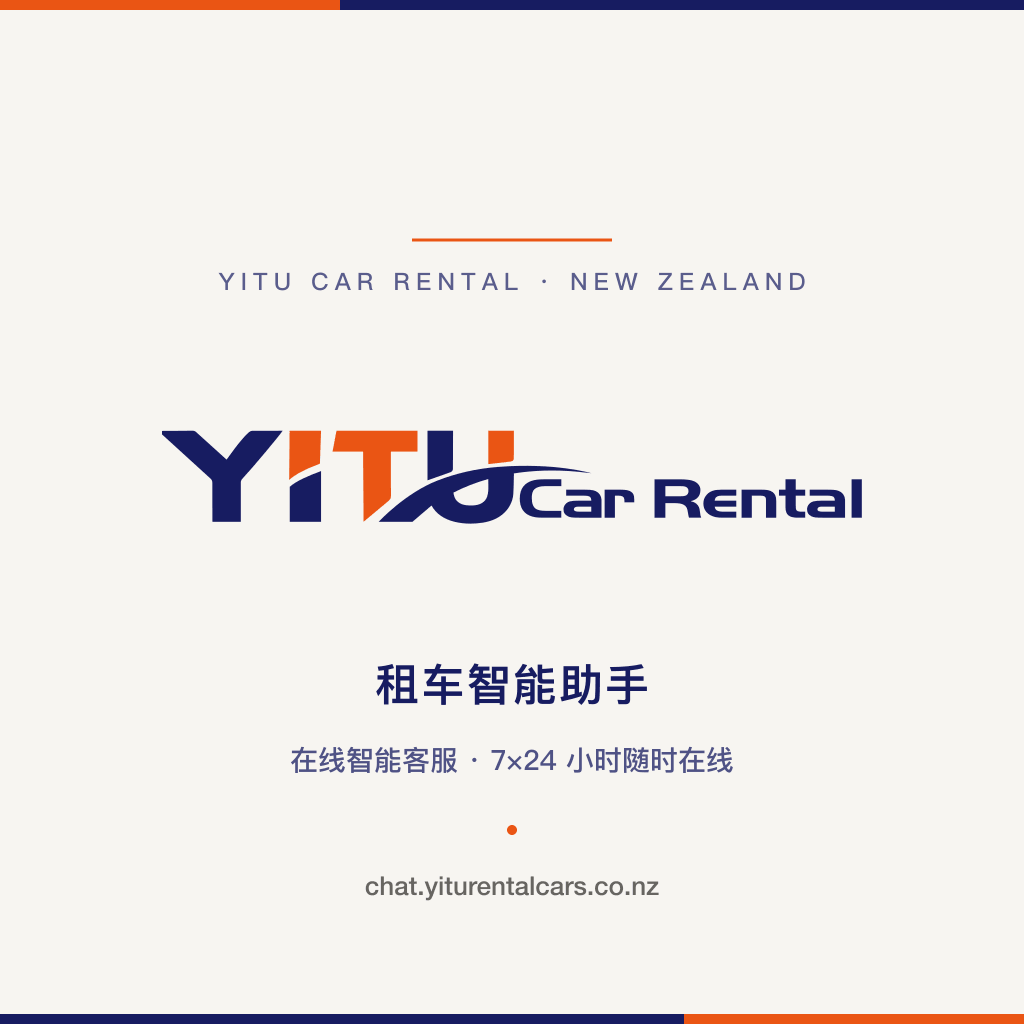
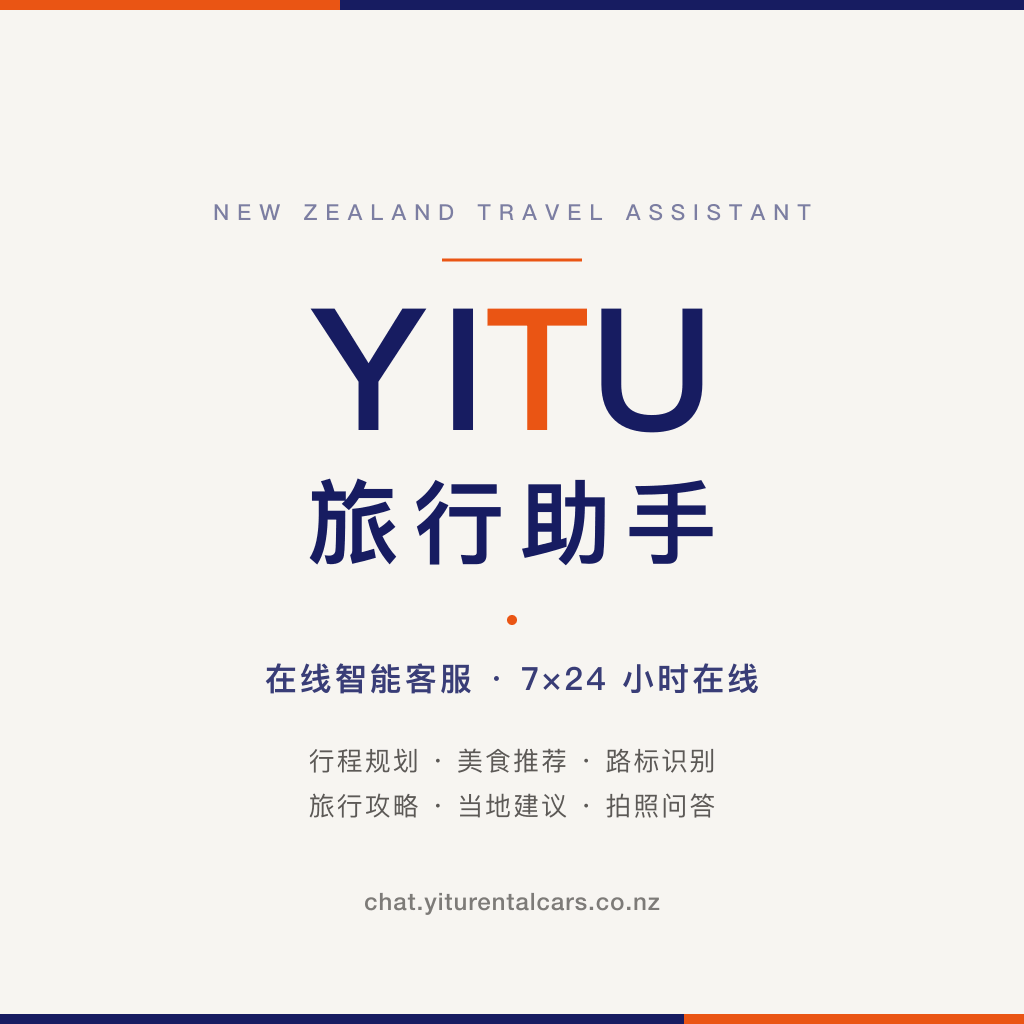
update: add sitemap and robots.txt

diff --git a/lib/seed.js b/lib/seed.js
@@ -4,151 +4,17 @@
 const bcrypt = require('bcrypt')
 const dbApi = require('./db')
 
-const SAMPLE_SCRIPTS = [
-  { category: '问候',   triggers: ['你好', '您好', 'hi', 'hello'], reply: '您好！欢迎咨询 yitu 租车，我是您的智能助手。请问有什么可以帮您？' },
-  { category: '联系方式', triggers: ['电话', '联系方式', '人工'],   reply: '客服电话：400-xxx-xxxx（9:00-21:00）\n微信：yitu-rental' },
-  { category: '营业时间', triggers: ['几点', '营业时间', '上班时间', '门店时间'], reply: '门店营业时间：每天 8:00-22:00\n24 小时还车请提前预约' },
-  { category: '门店位置', triggers: ['门店', '地址', '在哪', '位置'], reply: '我们在以下城市有门店：上海、杭州、苏州。具体地址可在「联系方式」中咨询客服～' },
-  { category: '支付方式', triggers: ['怎么付款', '支付', '付钱', '付款方式'], reply: '支持支付宝、微信、银行卡、现金（押金）。租金可分期。' },
-  { category: '发票',    triggers: ['发票', '开票', '报销'], reply: '可开增值税普通发票或专用发票，还车后 3 个工作日内开具。请向门店提供抬头和税号。' },
-  { category: '取消订单', triggers: ['取消', '退订', '不租了'], reply: '用车前 24 小时取消免费；24 小时内取消扣 30% 押金；用车当天取消押金不退。' },
-  { category: '感谢',    triggers: ['谢谢', '感谢', 'thanks'], reply: '不客气！还有其他问题随时问我哦 😊' },
-  { category: '再见',    triggers: ['再见', '拜拜', 'bye'], reply: '感谢咨询 yitu 租车，祝您出行愉快！' },
-  { category: '投诉',    triggers: ['投诉', '差评', '不满意'], reply: '非常抱歉给您带来不好的体验。请拨打投诉专线 400-xxx-xxxx 转 9，我们会立即处理。' },
-]
+// 不再预置示例话术——所有话术由管理员在后台添加
+const SAMPLE_SCRIPTS = []
 
-const SAMPLE_KNOWLEDGE = [
-  {
-    category: '押金',
-    title: '押金标准与退还流程',
-    keywords: ['押金', '押多少', '押金多少', '退押金', '押金退还'],
-    content:
-`押金标准按车型分级：
-• 经济型（轩逸、朗逸等）：¥3,000
-• 舒适型（凯美瑞、雅阁等）：¥5,000
-• SUV（途观、CR-V 等）：¥6,000
-• 豪华型（宝马、奔驰）：¥10,000
-
-支持现金、微信、支付宝、银行卡预授权。
-还车验收无违章、无损伤后，3 个工作日内原路退回；如涉及违章查询，待违章处理完毕后退还。`,
-  },
-  {
-    category: '车型价格',
-    title: '各车型日租与周租价格',
-    keywords: ['多少钱', '价格', '日租', '周租', '报价', '费用'],
-    content:
-`日租价格（含基础保险）：
-• 经济型 ¥150/天起
-• 舒适型 ¥280/天起
-• SUV ¥350/天起
-• 商务车（GL8 等）¥480/天起
-• 豪华型 ¥800/天起
-
-租期优惠：
-• 3 天以上 9 折
-• 7 天以上 8.5 折
-• 30 天以上联系客服定制月租价`,
-  },
-  {
-    category: '保险',
-    title: '保险方案与理赔范围',
-    keywords: ['保险', '理赔', '出险', '撞车', '刮蹭'],
-    content:
-`我们提供两档保险：
-
-【基础保险】（已含在租金内）
-• 第三者责任险 50 万
-• 车损险（自付 1500 元起赔）
-
-【全险】（+¥80/天）
-• 第三者责任险 100 万
-• 车损险全额赔付（自付 0 元）
-• 玻璃单独破碎险
-• 轮胎损失险
-
-出险流程：第一时间报警 + 联系我们的 24 小时救援电话，保留现场照片。`,
-  },
-  {
-    category: '取还车',
-    title: '取车与还车流程',
-    keywords: ['取车', '还车', '流程', '怎么取', '怎么还', '门店', '机场'],
-    content:
-`取车流程：
-1. 携带身份证 + 驾照原件到门店
-2. 验车（外观、油量、里程数，门店人员陪同）
-3. 签合同 + 交押金
-4. 提车
-
-还车流程：
-1. 提前 1 小时电话预约还车时间
-2. 加满油（或按合同约定油量）
-3. 门店验车（约 15 分钟）
-4. 退押金
-
-机场/高铁站送取车：+¥50/次（部分城市免费，详询客服）`,
-  },
-  {
-    category: '驾照',
-    title: '承租人资质要求',
-    keywords: ['驾照', '驾龄', '要求', '资质', '谁能租', '年龄'],
-    content:
-`承租人需满足：
-• 年满 22 周岁
-• 持有效中国大陆 C1 及以上驾照
-• 驾龄满 1 年
-• 提供身份证原件（非复印件）
-
-外籍人士需额外提供：护照 + 中国驾照或国际驾照公证件。
-
-70 岁以上需提供近 3 个月内体检报告。`,
-  },
-  {
-    category: '异地用车',
-    title: '跨城市/省份用车规定',
-    keywords: ['外地', '跨省', '异地', '开出去', '跨城', '长途', '西藏', '新疆'],
-    content:
-`跨城市/省份用车需满足：
-• 提前在合同中报备目的地
-• 单程超 500 km 需缴纳长途押金 ¥2,000（还车后退）
-• 仅限本公司服务城市还车（上海、杭州、苏州），异地还车需缴异地费 ¥800-1500
-
-禁止行驶区域：西藏、新疆部分地区（详询客服）。`,
-  },
-  {
-    category: '违章',
-    title: '违章处理与代办',
-    keywords: ['违章', '罚款', '扣分', '超速', '闯红灯'],
-    content:
-`违章处理规则：
-• 还车后我们会在 7 个工作日内查询违章
-• 罚款由承租人承担
-• 我们提供违章代办服务（¥50/次）
-• 扣分需由本人到交管局处理，或委托代办（费用另议）
-
-建议安装「交管 12123」APP 自行处理，省时省钱。`,
-  },
-  {
-    category: '优惠活动',
-    title: '会员折扣与节假日活动',
-    keywords: ['优惠', '折扣', '活动', '会员', '便宜'],
-    content:
-`长期优惠：
-• 注册会员立减 ¥50
-• 老客户推荐返 ¥100/单
-• 企业月租 8 折
-
-节假日：
-• 春节/国庆等节假日租金有 10%-20% 上浮（按合同约定）
-• 提前 30 天预订可锁定平日价
-
-关注我们的微信公众号「yitu 租车」获取最新活动。`,
-  },
-]
+// 不再预置示例知识——所有知识库条目由管理员在后台添加
+const SAMPLE_KNOWLEDGE = []
 
 const DEFAULT_SETTINGS = {
-  bot_name: 'yitu 租车助手',
+  bot_name: 'YITU旅行助手',
   welcome_msg:
-    '您好！欢迎咨询 yitu 租车 🚗\n我可以帮您解答：车型价格、押金、保险、取还车、违章等问题。\n请问有什么需要了解的？',
+`YITU旅行助手 · 在线智能客服
+7×24 小时在线问答：行程规划、美食推荐、路标/标识解释、旅行攻略、当地建议、日常问题等，一问即答。`,
   provider: 'claude',
   claude_model: 'claude-sonnet-4-6',
   openai_model: 'gpt-5',
@@ -157,11 +23,12 @@ const DEFAULT_SETTINGS = {
   log_enabled: true,
   enabled: true,
   system_prompt:
-`你是 yitu 租车公司（新西兰）的智能客服助手，主要为自驾游客户提供咨询服务。
-- 语气友好、专业、简洁，全程用中文回复。
-- 业务相关问题（车型、价格、押金、保险、取还车流程等）：依据系统提供的知识库资料回答，资料里没有的具体数字或政策不要编造，建议用户联系客服确认。
-- 通用问题（天气、景点、路况、签证、新西兰旅行常识等）：可以基于你的通用知识热情简洁地回答，让客户感到贴心。
-- 涉及具体订单、个人账户、合同细节时，引导用户联系门店或客服核实。`,
+`你是 YITU 旅行助手（新西兰），一个面向自由行旅客的智能客服助手。
+- 语气友好、专业、热心，全程用中文回复。
+- 擅长解答：行程规划、景点推荐、美食推荐、路标/标识解释、旅行攻略、当地交通/治安/天气常识、签证常识、日常旅行问题等。
+- 用户可以上传图片（路标、菜单、票据、地标等），请认真识别图片内容后再作答。
+- 涉及具体订单、个人账户、合同细节时，引导用户联系门店或客服核实。
+- 遇到需要实时信息（汇率、航班时刻、精确天气预报等）的问题，请给出常识性参考，并建议用户查询权威渠道。`,
   claude_api_key: '',
   openai_api_key: '',
 }
@@ -181,12 +48,12 @@ function seedIfEmpty() {
   const kbCount = dbApi.db.prepare('SELECT COUNT(*) AS n FROM knowledge').get().n
   const settingsCount = dbApi.db.prepare('SELECT COUNT(*) AS n FROM settings').get().n
 
-  if (scriptCount === 0) {
+  if (scriptCount === 0 && SAMPLE_SCRIPTS.length > 0) {
     SAMPLE_SCRIPTS.forEach(s => dbApi.upsertScript(s))
     console.log(`[seed] 已写入 ${SAMPLE_SCRIPTS.length} 条示例话术`)
   }
 
-  if (kbCount === 0) {
+  if (kbCount === 0 && SAMPLE_KNOWLEDGE.length > 0) {
     SAMPLE_KNOWLEDGE.forEach(k => dbApi.upsertKnowledge(k))
     console.log(`[seed] 已写入 ${SAMPLE_KNOWLEDGE.length} 条示例知识`)
   }

diff --git a/public/yitu-chat.html b/public/yitu-chat.html
@@ -4,18 +4,18 @@
 <meta charset="utf-8" />
 <meta name="viewport" content="width=device-width,initial-scale=1,maximum-scale=1,user-scalable=no,viewport-fit=cover" />
 <meta name="format-detection" content="telephone=no" />
-<title>yitu 租车助手 · 在线智能客服</title>
+<title>YITU旅行助手 在线智能客服</title>
 
 <!-- ── SEO / 卡片分享 meta（微信、QQ、Twitter、Facebook 通用） ── -->
-<meta name="description" content="yitu Rental Cars 官方智能客服 · 7×24 小时在线问答：车型与价格、押金保险、取还车流程、紧急联系，一问即答。" />
-<meta name="keywords" content="yitu, 租车, 新西兰租车, 智能客服, 在线咨询, 车型价格, 押金保险" />
+<meta name="description" content="YITU旅行助手 · 在线智能客服。7×24 小时在线问答：行程规划、美食推荐、路标/标识解释（支持拍照）、旅行攻略、当地建议、日常问题等，一问即答。" />
+<meta name="keywords" content="YITU, 旅行助手, 智能客服, 行程规划, 美食推荐, 旅行攻略, 路标识别, 拍照问答" />
 <link rel="canonical" href="__PUBLIC_BASE_URL__/chat" />
 
 <!-- Open Graph（微信抓取主要依据；Facebook / LinkedIn / 大多数 IM 也读这组） -->
 <meta property="og:type" content="website" />
-<meta property="og:site_name" content="yitu Rental Cars" />
-<meta property="og:title" content="yitu 租车助手 · 在线智能客服" />
-<meta property="og:description" content="7×24 小时在线问答：车型与价格、押金保险、取还车流程、紧急联系，一问即答。" />
+<meta property="og:site_name" content="YITU旅行助手" />
+<meta property="og:title" content="YITU旅行助手 在线智能客服" />
+<meta property="og:description" content="YITU旅行助手 · 在线智能客服。7×24 小时在线问答：行程规划、美食推荐、路标/标识解释（支持拍照）、旅行攻略、当地建议、日常问题等，一问即答。" />
 <meta property="og:url" content="__PUBLIC_BASE_URL__/chat" />
 
 <!-- 第一张 og:image：方形 1024×1024（微信对话框小卡片缩略图优先用方图，避免被中心裁切吃掉文字） -->
@@ -31,15 +31,15 @@
 <meta property="og:locale" content="zh_CN" />
 
 <!-- 微信专用：itemprop image 作为卡片缩略图兜底；name image 兼容旧版微信。两处都指向方图 -->
-<meta itemprop="name" content="yitu 租车助手 · 在线智能客服" />
-<meta itemprop="description" content="7×24 小时在线问答：车型、价格、押金、保险、取还车。" />
+<meta itemprop="name" content="YITU旅行助手 在线智能客服" />
+<meta itemprop="description" content="YITU旅行助手 · 在线智能客服。7×24 小时在线问答：行程规划、美食推荐、路标/标识解释（支持拍照）、旅行攻略、当地建议、日常问题等，一问即答。" />
 <meta itemprop="image" content="__PUBLIC_BASE_URL__/yitu-card-square.png" />
 <meta name="image" content="__PUBLIC_BASE_URL__/yitu-card-square.png" />
 
 <!-- Twitter Card：用长方形 -->
 <meta name="twitter:card" content="summary_large_image" />
-<meta name="twitter:title" content="yitu 租车助手 · 在线智能客服" />
-<meta name="twitter:description" content="7×24 小时在线问答：车型、价格、押金、保险、取还车。" />
+<meta name="twitter:title" content="YITU旅行助手 在线智能客服" />
+<meta name="twitter:description" content="YITU旅行助手 · 在线智能客服。7×24 小时在线问答：行程规划、美食推荐、路标/标识解释（支持拍照）、旅行攻略、当地建议、日常问题等，一问即答。" />
 <meta name="twitter:image" content="__PUBLIC_BASE_URL__/yitu-card.png" />
 
 <link rel="icon" type="image/svg+xml" href="/yitu-card.svg" />
@@ -98,14 +98,6 @@
   .typing .dot:nth-child(2) { animation-delay: 0.2s; }
   .typing .dot:nth-child(3) { animation-delay: 0.4s; }
   @keyframes blink { 0%, 80%, 100% { opacity: 0.3; } 40% { opacity: 1; } }
-
-  /* —— 快捷问题 —— */
-  .suggestions { display: flex; flex-wrap: wrap; gap: 8px; margin-top: 4px; }
-  .suggestions button {
-    border: 1px solid var(--line); background: #fff; color: var(--ink);
-    padding: 8px 14px; border-radius: 999px; font-size: 13.5px; font-family: inherit;
-  }
-  .suggestions button:active { background: var(--ink); color: #fff; }
 
   /* —— 输入区 —— */
   .input-area {
@@ -224,7 +216,7 @@ const attachBtn = $('attachBtn')
 const thumbStrip = $('thumbStrip')
 let history = []
 let sending = false
-let config = { bot_name: 'yitu 助手', welcome_msg: '您好！欢迎咨询～', suggestions: ['车型价格', '押金', '保险', '取还车'], enabled: true }
+let config = { bot_name: 'YITU旅行助手', welcome_msg: '您好！欢迎咨询～', enabled: true }
 
 // 图片：仅存在 JS 内存，刷新/关闭页面即释放，从不写入 localStorage / 服务器磁盘
 const MAX_IMAGES = 4
@@ -249,14 +241,6 @@ function addMessage(text, who, opts = {}) {
   const textHtml = text ? escapeHtml(text) : ''
   el.innerHTML = `<div class="bubble">${imgsHtml}${textHtml}</div>`
   msgWrap.appendChild(el)
-  if (opts.suggestions?.length) {
-    const sg = document.createElement('div')
-    sg.className = 'suggestions'
-    sg.style.alignSelf = 'flex-start'
-    sg.innerHTML = opts.suggestions.map(s => `<button>${escapeHtml(s)}</button>`).join('')
-    sg.querySelectorAll('button').forEach(b => b.onclick = () => { input.value = b.textContent; send() })
-    msgWrap.appendChild(sg)
-  }
   scrollDown()
 }
 
@@ -282,7 +266,7 @@ async function loadConfig() {
     config = { ...config, ...c }
     $('botName').textContent = config.bot_name
     $('avatar').textContent = (config.bot_name || 'V').slice(0, 1).toUpperCase()
-    addMessage(config.welcome_msg, 'bot', { suggestions: config.suggestions })
+    addMessage(config.welcome_msg, 'bot')
   } catch (e) {
     addMessage('连接失败，请稍后再试。', 'bot')
   }

diff --git a/server.js b/server.js
@@ -307,20 +307,9 @@ app.post('/api/admin/unanswered/:id/resolve', requireAdmin, (req, res) => {
 
 app.get('/api/chat/config', (_req, res) => {
   const s = db.getAllSettings()
-  // 从话术里抽 4 个常见类目的代表词作为「快捷问题」按钮
-  const scripts = db.listScripts()
-  const wanted = ['车型价格', '押金', '保险', '取还车', '联系方式']
-  const suggestions = []
-  for (const cat of wanted) {
-    const hit = scripts.find(x => (x.category || '').includes(cat))
-                || db.listKnowledge().find(x => (x.category || '').includes(cat))
-    if (hit) suggestions.push(cat)
-    if (suggestions.length >= 4) break
-  }
   res.json({
-    bot_name: s.bot_name || 'yitu 助手',
+    bot_name: s.bot_name || 'YITU旅行助手',
     welcome_msg: s.welcome_msg || '您好，有什么可以帮您？',
-    suggestions: suggestions.length ? suggestions : ['车型价格', '押金', '保险', '取还车'],
     enabled: s.enabled !== false,
   })
 })
